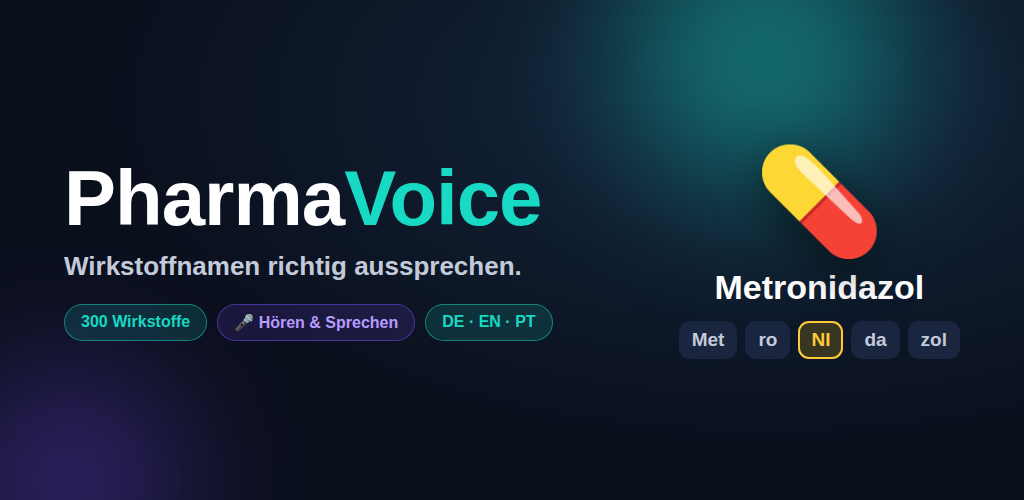
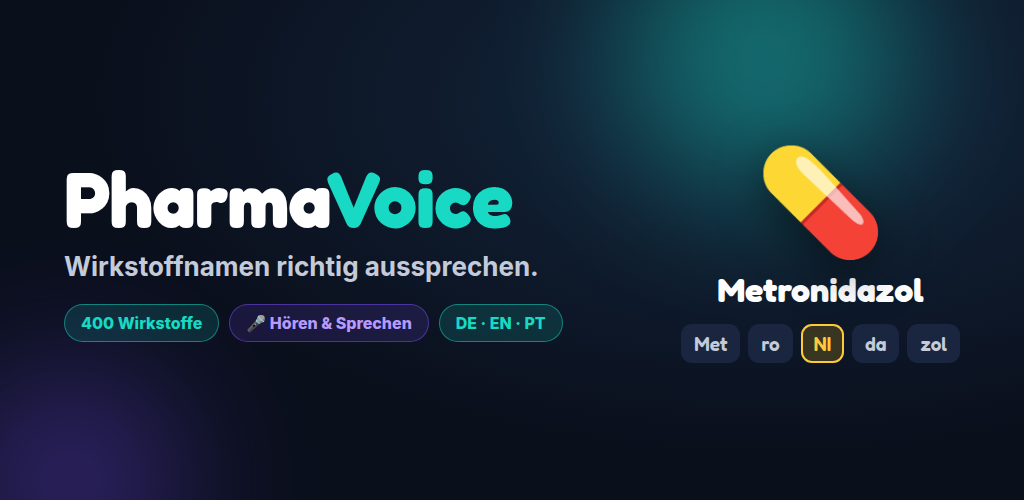
launch: Store-Listing copy-&-paste-fertig + frische Grafiken (Design/400) (#184)
Schritt 2 (Store-Eintrag) vorbereitet, damit nach der Konto-Verifizierung alles
nur noch eingefuegt wird:
- STORE_LISTING.md komplett ueberarbeitet: 300 -> 400, neues helles/dunkles
  Design erwaehnt, PKA/PTA/Pharmareferent:innen als Zielgruppe, Data-Safety-
  Abschnitt, aktuelle Datenschutz-/Impressum-URLs, aktualisierte Checkliste.
  Kurzbeschreibungen unter 80 Zeichen verifiziert (78/76/77).
- Feature-Grafik (1024x500) neu gerendert: "400 Wirkstoffe", lokale Fonts
  eingebunden (robuster Render), Marken-Look.
- 5 frische Handy-Screenshots (1170x2532, aktuelles helles Design, befuellter
  Stand): Home, Quiz, Lexikon, Result, Profil. Veraltete Dark-Design-
  Screenshots entfernt.

Claude-Session: https://claude.ai/code/session_01V3yikjkyXkHfkiwFScGTYx

diff --git a/store-assets/feature-graphic.html b/store-assets/feature-graphic.html
@@ -4,10 +4,12 @@
 <meta charset="UTF-8">
 <link href="https://fonts.googleapis.com/css2?family=Fredoka:wght@500;600;700&family=Inter:wght@600;700;800&display=swap" rel="stylesheet">
 <style>
+  @font-face { font-family:'FredokaLocal'; src:url('../fonts/Fredoka-latin.woff2') format('woff2'); font-weight:300 700; font-display:swap; }
+  @font-face { font-family:'InterLocal'; src:url('../fonts/Inter-latin.woff2') format('woff2'); font-weight:100 900; font-display:swap; }
   * { margin:0; padding:0; box-sizing:border-box; }
   html,body { width:1024px; height:500px; overflow:hidden; }
   body {
-    font-family:'Inter',sans-serif;
+    font-family:'InterLocal','Inter',sans-serif;
     background:radial-gradient(ellipse at 75% 20%, #14283f 0%, #0A0F1C 62%);
     display:flex; align-items:center; padding:0 64px; position:relative;
   }
@@ -16,7 +18,7 @@
   .g1 { width:280px; height:280px; background:#14B8A6; top:-90px; right:120px; }
   .g2 { width:220px; height:220px; background:#7C4DFF; bottom:-90px; left:-40px; opacity:.35; }
   .left { position:relative; z-index:2; max-width:600px; }
-  .brand { font-family:'Fredoka',sans-serif; font-weight:700; font-size:78px; color:#fff; line-height:1; letter-spacing:-1px; }
+  .brand { font-family:'FredokaLocal','Fredoka',sans-serif; font-weight:700; font-size:78px; color:#fff; line-height:1; letter-spacing:-1px; }
   .brand span { color:#17D9C4; }
   .tag { font-size:26px; font-weight:700; color:#C3CBDA; margin-top:14px; }
   .sub { margin-top:22px; display:flex; gap:10px; }
@@ -25,9 +27,9 @@
   /* right visual: syllable chips card */
   .right { position:absolute; right:64px; top:50%; transform:translateY(-50%); z-index:2; text-align:center; }
   .pillicon { font-size:104px; filter:drop-shadow(0 12px 24px rgba(0,0,0,.5)); }
-  .word { font-family:'Fredoka',sans-serif; font-weight:700; font-size:34px; color:#fff; margin-top:6px; }
+  .word { font-family:'FredokaLocal','Fredoka',sans-serif; font-weight:700; font-size:34px; color:#fff; margin-top:6px; }
   .chips { display:flex; gap:8px; justify-content:center; margin-top:14px; }
-  .chip { background:#1A2540; color:#C3CBDA; border-radius:11px; padding:8px 13px; font-family:'Fredoka',sans-serif; font-weight:600; font-size:19px; }
+  .chip { background:#1A2540; color:#C3CBDA; border-radius:11px; padding:8px 13px; font-family:'FredokaLocal','Fredoka',sans-serif; font-weight:600; font-size:19px; }
   .chip.stress { background:rgba(255,193,7,.18); color:#FFC93C; box-shadow:inset 0 0 0 2px #FFC93C; }
 </style>
 </head>
@@ -38,7 +40,7 @@
     <div class="brand">Pharma<span>Voice</span></div>
     <div class="tag">Wirkstoffnamen richtig aussprechen.</div>
     <div class="sub">
-      <span class="pill">300 Wirkstoffe</span>
+      <span class="pill">400 Wirkstoffe</span>
       <span class="pill alt">🎤 Hören &amp; Sprechen</span>
       <span class="pill">DE · EN · PT</span>
     </div>

diff --git a/STORE_LISTING.md b/STORE_LISTING.md
@@ -1,11 +1,17 @@
-# PharmaVoice – Google Play Store Listing
+# PharmaVoice – Google Play Store Listing (Copy-&-Paste-fertig)
 
-Fertige Texte zum Einfügen in die Play Console. Zeichen-Limits sind angegeben.
-Alle Texte enthalten **keine** Heilversprechen; die App ist ein Lernwerkzeug.
+Alle Felder unten sind direkt in die Play Console kopierbar. Zeichen-Limits sind angegeben.
+Kein Heilversprechen – die App ist ein Lernwerkzeug.
 
-> ⚠ Vor Veröffentlichung: **Datenschutzerklärung öffentlich hosten** (URL wird in der
-> Play Console zwingend abgefragt). Text liegt als In-App-Seite vor (Profil → Rechtliches)
-> und sollte zusätzlich auf einer eigenen Domain erreichbar sein.
+**Wichtige URLs (bereits online):**
+- Datenschutz: `https://desgaspar92-commits.github.io/datenschutz.html`
+- Impressum:   `https://desgaspar92-commits.github.io/impressum.html`
+- App/Website: `https://desgaspar92-commits.github.io/`
+
+**Unternehmensdaten (für Konto-Verifizierung):**
+- Rechtlicher Name: Leo Fernandes Gaspar (Einzelunternehmer)
+- D-U-N-S: `303262490` · GISA: `40028903`
+- Kontakt: leofernandesgaspar92@gmail.com
 
 ---
 
@@ -13,23 +19,23 @@ Alle Texte enthalten **keine** Heilversprechen; die App ist ein Lernwerkzeug.
 ```
 PharmaVoice: Wirkstoffe
 ```
-(EN/PT identisch: `PharmaVoice: Drug Names` / `PharmaVoice: Fármacos`)
+EN: `PharmaVoice: Drug Names` · PT: `PharmaVoice: Fármacos`
 
 ---
 
 ## Kurzbeschreibung  *(max. 80 Zeichen)*
 
-**DE**
+**DE** (78)
 ```
-Aussprache von 300 Wirkstoffen lernen – spielerisch, offline, in 3 Sprachen.
+Aussprache von 400 Wirkstoffen lernen – spielerisch, offline, in 3 Sprachen.
 ```
-**EN**
+**EN** (76)
 ```
-Learn to pronounce 300 drug names – gamified, offline, in three languages.
+Learn to pronounce 400 drug names – gamified, offline, in three languages.
 ```
-**PT**
+**PT** (77)
 ```
-Aprenda a pronunciar 300 fármacos – gamificado, offline, em três idiomas.
+Aprenda a pronunciar 400 fármacos – gamificado, offline, em três idiomas.
 ```
 
 ---
@@ -40,10 +46,10 @@ Aprenda a pronunciar 300 fármacos – gamificado, offline, em três idiomas.
 ```
 Sprich medizinische Wirkstoffnamen endlich richtig aus – ohne Stolpern, ohne Unsicherheit.
 
-PharmaVoice bringt dir die korrekte Aussprache von 300 gängigen Wirkstoffen bei: Silbe für Silbe, mit Betonung, Lautschrift und Sprachausgabe zum Nachsprechen. Ideal für PKA-Lehrlinge, Apothekenpersonal und Pharmazie-Studierende.
+PharmaVoice bringt dir die korrekte Aussprache von 400 gängigen Wirkstoffen bei: Silbe für Silbe, mit Betonung, Lautschrift und Sprachausgabe zum Nachsprechen. Ideal für PKA-/PTA-Lehrlinge, Apothekenpersonal, Pharmareferent:innen und Pharmazie-Studierende.
 
 WARUM PHARMAVOICE?
-• 300 Wirkstoffe mit Silbentrennung, Betonung und Lautschrift (IPA)
+• 400 Wirkstoffe mit Silbentrennung, Betonung und Lautschrift (IPA)
 • Hören & Nachsprechen – die richtige Betonung sitzt Silbe für Silbe
 • Wirkstoff-Lexikon mit Indikation, Wirkstoffklasse und ATC-Code
 • Suchen, filtern und alphabetisch sortieren
@@ -54,13 +60,17 @@ SPIELERISCH LERNEN
 • Spaced Repetition: die App wiederholt genau das, was du auffrischen musst
 • Belohnungen, Kombos und Level-Aufstiege
 
+KLARES, MODERNES DESIGN
+• Helles und dunkles Design (frei umschaltbar)
+• Übersichtlich, ablenkungsfrei, auf Lesbarkeit optimiert
+
 DEINE DATEN BLEIBEN BEI DIR
 • Fortschritt wird lokal auf deinem Gerät gespeichert
 • Funktioniert offline
-• Kein Tracking
+• Kein Tracking, keine Werbung
 
 DREISPRACHIG
-Deutsch, Englisch und Portugiesisch.
+Deutsch, Englisch und Portugiesisch – Oberfläche und Fachtexte.
 
 Hinweis: PharmaVoice ist ein Lernwerkzeug und ersetzt keine medizinische oder pharmazeutische Beratung.
 ```
@@ -69,10 +79,10 @@ Hinweis: PharmaVoice ist ein Lernwerkzeug und ersetzt keine medizinische oder ph
 ```
 Finally pronounce medical drug names correctly – no stumbling, no doubt.
 
-PharmaVoice teaches you the correct pronunciation of 300 common drug substances: syllable by syllable, with stress marks, phonetic transcription and audio to repeat after. Perfect for pharmacy assistants, pharmacy staff and pharmacology students.
+PharmaVoice teaches you the correct pronunciation of 400 common drug substances: syllable by syllable, with stress marks, phonetic transcription and audio to repeat after. Perfect for pharmacy assistants and technicians, pharmacy staff, pharma reps and pharmacology students.
 
 WHY PHARMAVOICE?
-• 300 drugs with syllable breakdown, stress and phonetics (IPA)
+• 400 drugs with syllable breakdown, stress and phonetics (IPA)
 • Listen & repeat – nail the right stress, syllable by syllable
 • Drug encyclopedia with indication, drug class and ATC code
 • Search, filter and sort alphabetically
@@ -83,13 +93,17 @@ LEARN THE FUN WAY
 • Spaced repetition: the app reviews exactly what you need to refresh
 • Rewards, combos and level-ups
 
+CLEAN, MODERN DESIGN
+• Light and dark theme (freely switchable)
+• Clear, distraction-free, optimised for readability
+
 YOUR DATA STAYS WITH YOU
 • Progress is stored locally on your device
 • Works offline
-• No tracking
+• No tracking, no ads
 
 THREE LANGUAGES
-German, English and Portuguese.
+German, English and Portuguese – interface and content.
 
 Note: PharmaVoice is a learning tool and does not replace medical or pharmaceutical advice.
 ```
@@ -98,10 +112,10 @@ Note: PharmaVoice is a learning tool and does not replace medical or pharmaceuti
 ```
 Pronuncie corretamente os nomes de fármacos – sem tropeços, sem dúvidas.
 
-O PharmaVoice ensina a pronúncia correta de 300 substâncias comuns: sílaba a sílaba, com sílaba tônica, transcrição fonética e áudio para repetir. Ideal para auxiliares de farmácia, equipe de farmácia e estudantes de farmácia.
+O PharmaVoice ensina a pronúncia correta de 400 substâncias comuns: sílaba a sílaba, com sílaba tônica, transcrição fonética e áudio para repetir. Ideal para auxiliares e técnicos de farmácia, equipe de farmácia, representantes farmacêuticos e estudantes de farmácia.
 
 POR QUE PHARMAVOICE?
-• 300 fármacos com divisão silábica, tonicidade e fonética (IPA)
+• 400 fármacos com divisão silábica, tonicidade e fonética (IPA)
 • Ouça e repita – acerte a sílaba tônica, sílaba a sílaba
 • Enciclopédia com indicação, classe e código ATC
 • Busque, filtre e ordene em ordem alfabética
@@ -112,13 +126,17 @@ APRENDA DE FORMA DIVERTIDA
 • Repetição espaçada: o app revisa exatamente o que você precisa
 • Recompensas, combos e subidas de nível
 
+DESIGN MODERNO E LIMPO
+• Tema claro e escuro (alternável)
+• Claro, sem distrações, otimizado para leitura
+
 SEUS DADOS FICAM COM VOCÊ
 • Progresso salvo localmente no seu dispositivo
 • Funciona offline
-• Sem rastreamento
+• Sem rastreamento, sem anúncios
 
 TRÊS IDIOMAS
-Alemão, inglês e português.
+Alemão, inglês e português – interface e conteúdo.
 
 Observação: o PharmaVoice é uma ferramenta de aprendizagem e não substitui aconselhamento médico ou farmacêutico.
 ```
@@ -128,37 +146,46 @@ Observação: o PharmaVoice é uma ferramenta de aprendizagem e não substitui a
 ## Kategorie & Einstufung
 - **Kategorie:** Bildung (Education)
 - **Tags:** Bildung, Medizin, Sprachen lernen, Karteikarten
-- **Zielgruppe / Inhaltseinstufung:** Für alle Altersgruppen (kein anstößiger Inhalt).
-  Im Fragebogen ehrlich: keine Gewalt, keine Nutzergenerierten Inhalte, kein Standort.
+- **Inhaltseinstufung:** Für alle Altersgruppen. Im Fragebogen ehrlich: keine Gewalt, keine
+  nutzergenerierten Inhalte, kein Standort, keine sensiblen Daten.
 - **Enthält Werbung:** Nein
-- **In-App-Käufe:** Ja (falls Freemium/Abo aktiv) – sonst Nein.
+- **In-App-Käufe:** derzeit Nein (falls später Freemium/Abo aktiv → auf Ja ändern)
 
 ---
 
-## Keyword-Hinweise (fließen in Kurz-/Langtext ein, kein eigenes Feld bei Google)
-`Wirkstoff, Aussprache, Pharmazie, PKA, Apotheke, Medikamente lernen, Lautschrift, ATC, Pharmakologie`
+## Data-Safety-Formular (aktueller Stand)
+- **Werden Daten erfasst/geteilt?** Nein – alle Daten bleiben lokal auf dem Gerät (localStorage).
+- **Keine Übertragung an Server, kein Tracking, keine Werbe-ID.**
+- Mikrofon: wird nur lokal im Gerät zur Aussprache-Erkennung genutzt, es wird keine Aufnahme
+  gespeichert oder übertragen (im Fragebogen entsprechend angeben).
+- ⚠ Nach Einführung von Firebase/Cloud-Login oder Google Play Billing **anpassen**.
+
+---
+
+## Keyword-Hinweise (fließen in Kurz-/Langtext ein)
+`Wirkstoff, Aussprache, Pharmazie, PKA, PTA, Apotheke, Medikamente lernen, Lautschrift, ATC, Pharmakologie`
 (EN: `drug pronunciation, pharmacy, pharmacology, medical terms, flashcards`)
 
 ---
 
-## Grafik-Assets (Pflicht/empfohlen)
+## Grafik-Assets
 | Asset | Vorgabe | Status |
 |---|---|---|
-| App-Icon | 512×512 PNG | vorhanden (`icon-512.png`) – ggf. hübscher gestalten |
-| Feature-Grafik | 1024×500 PNG/JPG | **noch zu erstellen** |
-| Screenshots Handy | mind. 2, empf. 4–8 (16:9 oder 9:16) | **noch zu erstellen** (Lesson-, Home-Path-, Result-Screen eignen sich) |
+| App-Icon | 512×512 PNG | vorhanden (`icon-512.png`) |
+| Feature-Grafik | 1024×500 | ✅ `store-assets/feature-graphic.png` (aktualisiert, „400") |
+| Screenshots Handy | mind. 2 (empf. 4–8), 9:16 | ✅ `store-assets/screenshots/01-home … 05-profil.png` (1170×2532, aktuelles helles Design) |
 | (optional) Kurzvideo | YouTube-Link | optional |
 
-> Für die Screenshots eignen sich die drei Design-Mockups aus dem Projekt
-> (Lesson / Lernpfad / Result). In echten Geräteaufnahmen mit sichtbarem
-> Fortschritt (Streak, XP) wirken sie am stärksten.
+Reihenfolge-Empfehlung im Store: **01-home → 02-quiz → 03-lexikon → 04-result → 05-profil**.
 
 ---
 
 ## Pre-Launch-Checkliste (Store)
-- [ ] Datenschutzerklärung öffentlich unter eigener URL
-- [ ] Impressum-/Kontaktangaben vollständig (Platzhalter in der App ersetzt)
-- [ ] Data-Safety-Formular ausgefüllt (aktuell: lokale Speicherung, keine Übertragung; nach Firebase anpassen)
-- [ ] Signierter `.aab`-Upload (siehe CAPACITOR_SETUP.md)
-- [ ] Mind. 2 Screenshots + Feature-Grafik hochgeladen
-- [ ] Bei Abos: Produkt in „Monetarisierung → Produkte" angelegt + AGB/Widerruf verlinkt
+- [x] Datenschutzerklärung öffentlich unter eigener URL
+- [x] Impressum-/Kontaktangaben (Wohnadresse durch Platzhalter ersetzt)
+- [x] Feature-Grafik + 5 aktuelle Screenshots vorhanden
+- [ ] Play-Entwicklerkonto (Organisation) verifiziert (D-U-N-S nach 24–48 h)
+- [ ] Signierter `.aab`-Upload (lokal, siehe CAPACITOR_SETUP.md) + Keystore sicher sichern
+- [ ] Data-Safety-Formular ausgefüllt (siehe oben)
+- [ ] Inhaltseinstufungs-Fragebogen ausgefüllt
+- [ ] Interner Test → Produktion, Release eingereicht
